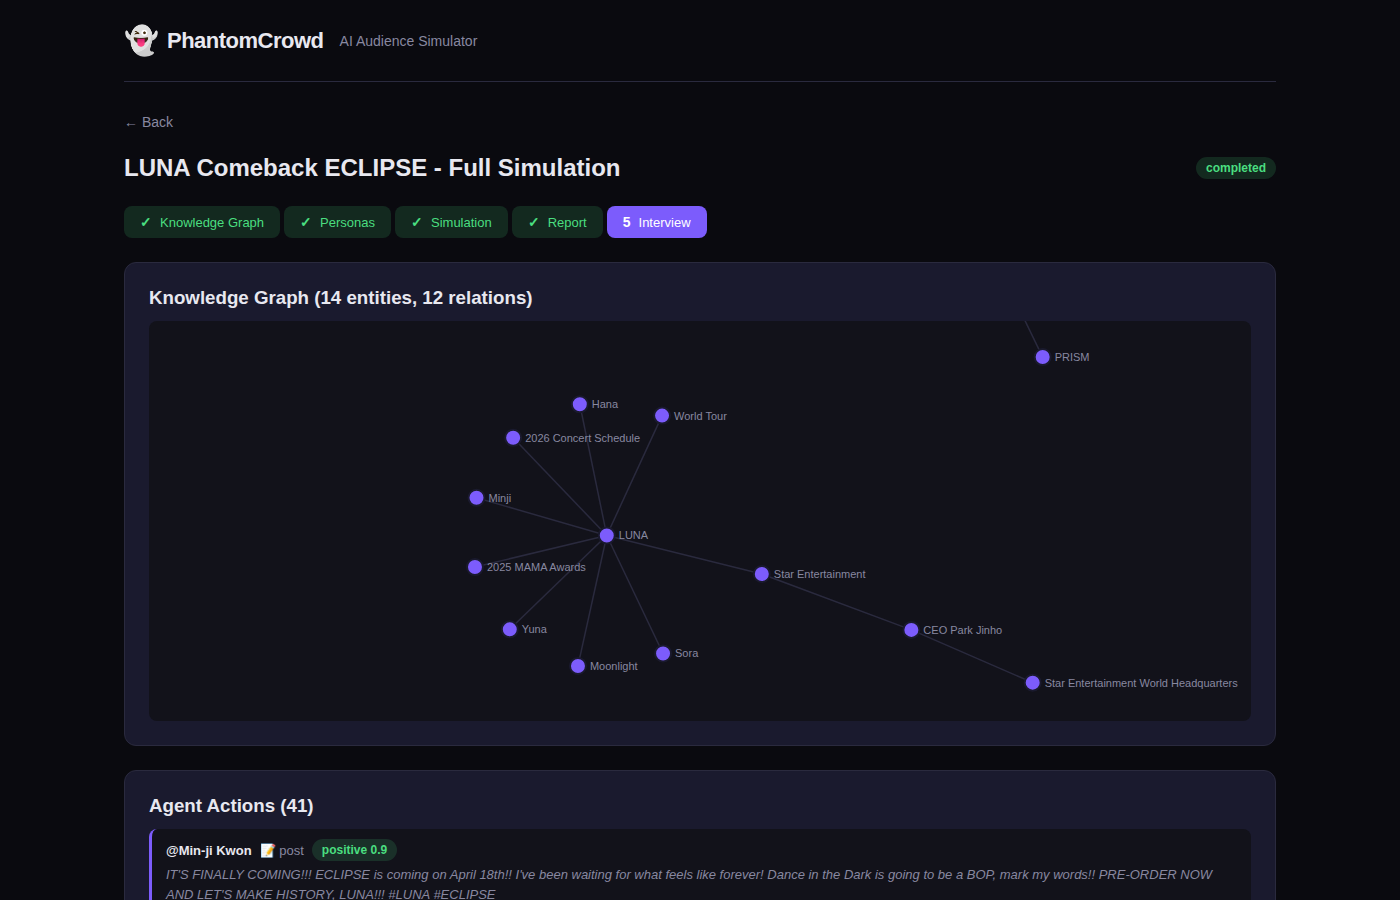
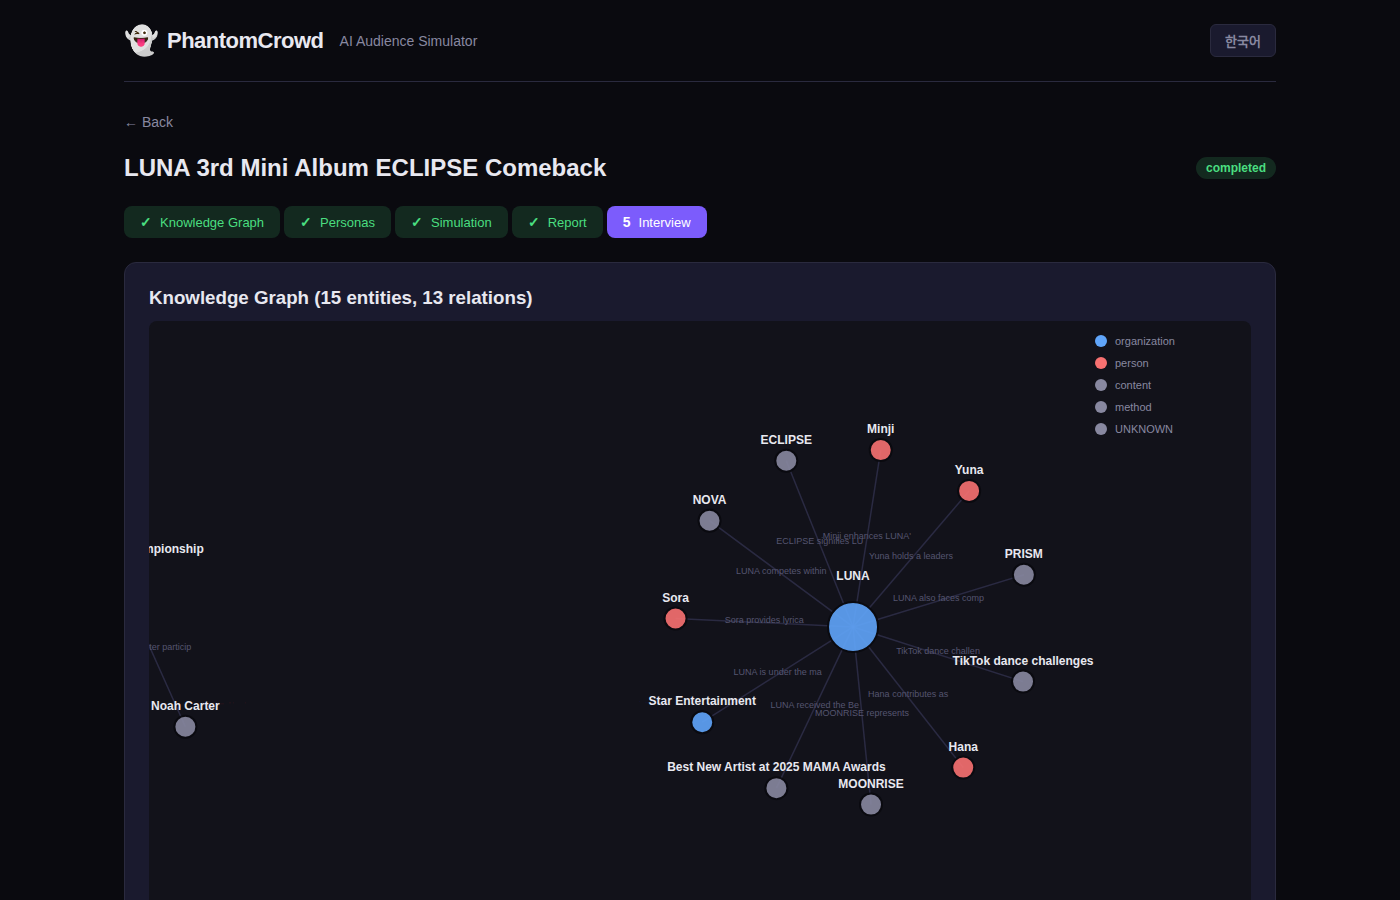
Improve graph visualization + EXAONE Korean model + updated screenshots
Graph visualization:
- Entity type color coding with legend (person=red, org=blue, event=yellow, etc.)
- Node size by connection count (more connected = bigger)
- Edge labels showing relationship type
- Zoom + pan support
- Hover glow effect
- Height 400→600px

Model:
- EXAONE 3.5 (LG AI Research) as recommended Korean model
- Much better Korean output vs qwen2.5 (no Chinese fallback)
- Updated .env.example with EXAONE recommendation

diff --git a/frontend/src/views/CampaignView.vue b/frontend/src/views/CampaignView.vue
@@ -252,7 +252,27 @@ async function doInterview() {
   }
 }
 
-// D3 graph rendering
+// Entity type → color mapping (MiroFish style)
+const TYPE_COLORS: Record<string, string> = {
+  person: '#f87171',     // red
+  organization: '#60a5fa', // blue
+  group: '#7c5cfc',      // purple
+  event: '#fbbf24',      // yellow
+  product: '#4ade80',    // green
+  location: '#f472b6',   // pink
+  award: '#fbbf24',      // yellow
+  unknown: '#8888a0',    // gray
+}
+
+function getNodeColor(type: string): string {
+  const t = (type || 'unknown').toLowerCase()
+  for (const [key, color] of Object.entries(TYPE_COLORS)) {
+    if (t.includes(key)) return color
+  }
+  return TYPE_COLORS.unknown
+}
+
+// D3 graph rendering — enhanced MiroFish-style
 function renderGraph() {
   if (!graphContainer.value || !graphData.value || graphData.value.nodes.length === 0) return
 
@@ -260,9 +280,19 @@ function renderGraph() {
   container.innerHTML = ''
 
   const width = container.clientWidth
-  const height = 400
+  const height = 600
 
-  const svg = d3.select(container).append('svg').attr('width', width).attr('height', height)
+  const svg = d3.select(container)
+    .append('svg')
+    .attr('width', width)
+    .attr('height', height)
+
+  // Zoom + pan
+  const g = svg.append('g')
+  const zoom = d3.zoom<SVGSVGElement, unknown>()
+    .scaleExtent([0.3, 4])
+    .on('zoom', (event) => g.attr('transform', event.transform))
+  svg.call(zoom)
 
   const nodes = graphData.value.nodes.map(n => ({ ...n }))
   const links = graphData.value.edges.map(e => ({
@@ -271,41 +301,73 @@ function renderGraph() {
     label: e.label,
   }))
 
-  const simulation = d3.forceSimulation(nodes as any)
-    .force('link', d3.forceLink(links as any).id((d: any) => d.id).distance(120))
-    .force('charge', d3.forceManyBody().strength(-300))
-    .force('center', d3.forceCenter(width / 2, height / 2))
+  // Count connections per node for sizing
+  const connectionCount: Record<string, number> = {}
+  links.forEach(l => {
+    connectionCount[l.source as string] = (connectionCount[l.source as string] || 0) + 1
+    connectionCount[l.target as string] = (connectionCount[l.target as string] || 0) + 1
+  })
 
-  const link = svg.append('g')
+  const simulation = d3.forceSimulation(nodes as any)
+    .force('link', d3.forceLink(links as any).id((d: any) => d.id).distance(160))
+    .force('charge', d3.forceManyBody().strength(-500))
+    .force('center', d3.forceCenter(width / 2, height / 2))
+    .force('collision', d3.forceCollide().radius(40))
+
+  // Edge lines
+  const link = g.append('g')
     .selectAll('line')
     .data(links)
     .join('line')
-    .attr('stroke', '#2a2a3e')
+    .attr('stroke', '#3a3a5e')
     .attr('stroke-width', 1.5)
+    .attr('stroke-opacity', 0.6)
 
-  const node = svg.append('g')
+  // Edge labels
+  const edgeLabel = g.append('g')
+    .selectAll('text')
+    .data(links)
+    .join('text')
+    .text((d: any) => d.label ? d.label.substring(0, 20) : '')
+    .attr('font-size', 9)
+    .attr('fill', '#555570')
+    .attr('text-anchor', 'middle')
+
+  // Node circles — sized by connections
+  const node = g.append('g')
     .selectAll('circle')
     .data(nodes)
     .join('circle')
-    .attr('r', 8)
-    .attr('fill', '#7c5cfc')
-    .attr('stroke', '#1a1a2e')
+    .attr('r', (d: any) => Math.max(10, Math.min(25, 8 + (connectionCount[d.id] || 0) * 3)))
+    .attr('fill', (d: any) => getNodeColor(d.type))
+    .attr('stroke', '#0a0a0f')
     .attr('stroke-width', 2)
+    .attr('opacity', 0.9)
+    .style('cursor', 'grab')
     .call(d3.drag<any, any>()
       .on('start', (e, d: any) => { if (!e.active) simulation.alphaTarget(0.3).restart(); d.fx = d.x; d.fy = d.y })
       .on('drag', (e, d: any) => { d.fx = e.x; d.fy = e.y })
       .on('end', (e, d: any) => { if (!e.active) simulation.alphaTarget(0); d.fx = null; d.fy = null })
     )
 
-  const label = svg.append('g')
+  // Node hover glow
+  node.on('mouseover', function() {
+    d3.select(this).attr('stroke', '#7c5cfc').attr('stroke-width', 4)
+  }).on('mouseout', function() {
+    d3.select(this).attr('stroke', '#0a0a0f').attr('stroke-width', 2)
+  })
+
+  // Node labels
+  const label = g.append('g')
     .selectAll('text')
     .data(nodes)
     .join('text')
     .text((d: any) => d.label)
-    .attr('font-size', 11)
-    .attr('fill', '#8888a0')
-    .attr('dx', 12)
-    .attr('dy', 4)
+    .attr('font-size', 12)
+    .attr('font-weight', 600)
+    .attr('fill', '#e8e8f0')
+    .attr('text-anchor', 'middle')
+    .attr('dy', (d: any) => -(Math.max(10, 8 + (connectionCount[d.id] || 0) * 3)) - 6)
 
   simulation.on('tick', () => {
     link
@@ -313,8 +375,19 @@ function renderGraph() {
       .attr('y1', (d: any) => d.source.y)
       .attr('x2', (d: any) => d.target.x)
       .attr('y2', (d: any) => d.target.y)
+    edgeLabel
+      .attr('x', (d: any) => (d.source.x + d.target.x) / 2)
+      .attr('y', (d: any) => (d.source.y + d.target.y) / 2)
     node.attr('cx', (d: any) => d.x).attr('cy', (d: any) => d.y)
     label.attr('x', (d: any) => d.x).attr('y', (d: any) => d.y)
+  })
+
+  // Legend
+  const legendData = [...new Set(nodes.map((n: any) => n.type || 'unknown'))]
+  const legend = svg.append('g').attr('transform', `translate(${width - 150}, 20)`)
+  legendData.forEach((type, i) => {
+    legend.append('circle').attr('cx', 0).attr('cy', i * 22).attr('r', 6).attr('fill', getNodeColor(type))
+    legend.append('text').attr('x', 14).attr('y', i * 22 + 4).text(type).attr('font-size', 11).attr('fill', '#8888a0')
   })
 }
 
@@ -351,7 +424,7 @@ onUnmounted(() => { if (pollTimer) clearInterval(pollTimer) })
 .step-card p { color: var(--text-secondary); line-height: 1.5; }
 
 /* Graph */
-.graph-container { width: 100%; height: 400px; background: var(--bg-secondary); border-radius: 8px; overflow: hidden; }
+.graph-container { width: 100%; height: 600px; background: var(--bg-secondary); border-radius: 8px; overflow: hidden; }
 
 /* Action Feed */
 .action-feed { max-height: 400px; overflow-y: auto; display: flex; flex-direction: column; gap: 8px; }
